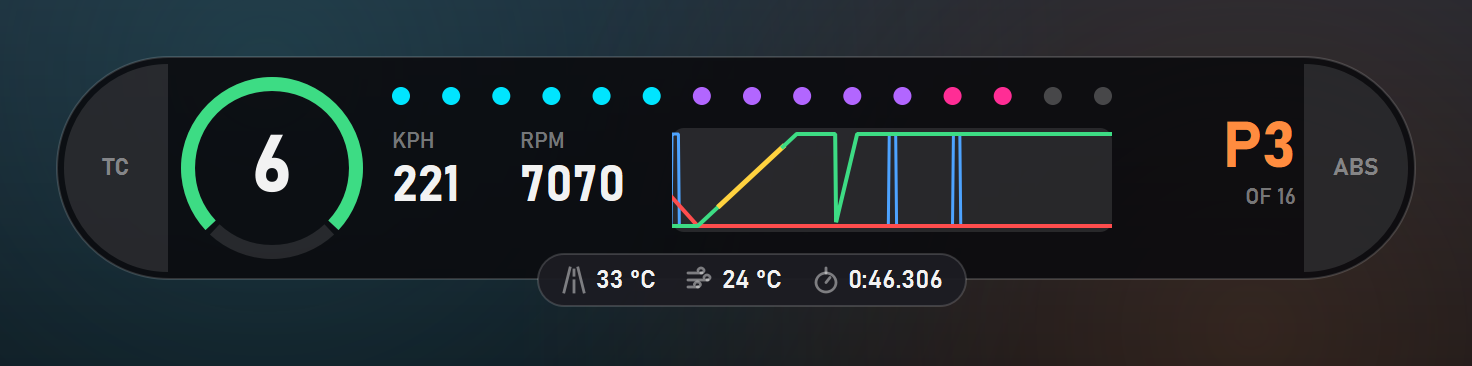
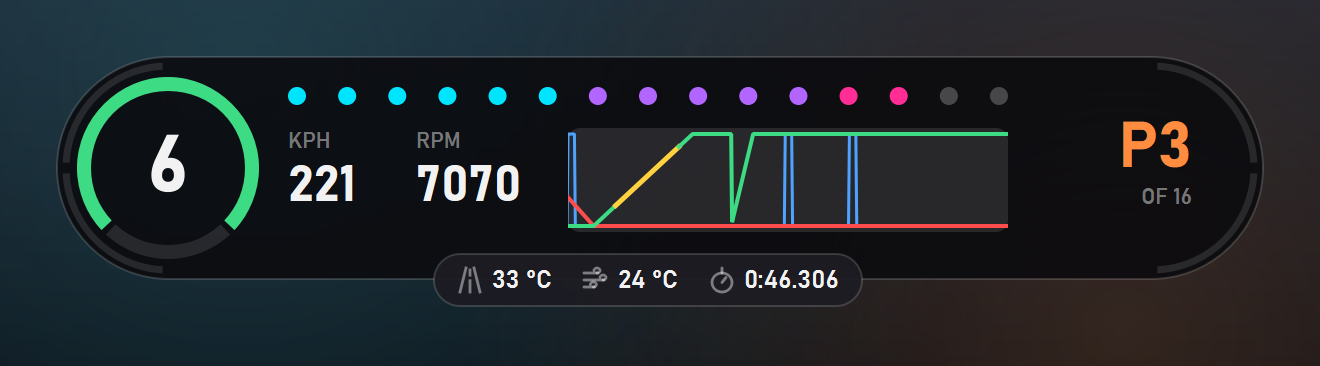
Draw TC/ABS as side-aware arc lines on the pill's ends
The user wanted the pill's rounded ends as half-circumference lines, not
filled shapes, with TC and ABS on both sides:
- each end is a thin arc: upper quarter TC (yellow), lower quarter ABS
  (orange); the left end is the car's left wheels and the right end its
  right wheels (slipping_sides() restored), flashing while active
- the gear ring moves inside the left end, concentric with its arc
- the pill is ~50 px narrower; the position runs into the right end
- demo per-wheel slip restored so the demo shows one-sided arcs

diff --git a/ace_overlay/overlay.py b/ace_overlay/overlay.py
@@ -24,23 +24,26 @@ DOT_OFF = QColor(255, 255, 255, 60)
 TEXT = QColor("#f2f2f2")
 DIM = QColor(255, 255, 255, 110)
 
-# The pill: half-circle ends (TC left, ABS right), then left to right inside it:
-# gear ring | dot shift lights over KPH/RPM and the trace | position. The chip hangs off the bottom edge.
+# The pill. Its rounded ends carry the TC / ABS arcs (left end = car's left wheels, right end = right
+# wheels; upper quarter TC, lower quarter ABS). The gear ring sits inside the left end; then the dot
+# shift lights over KPH/RPM and the trace, then the position. The chip hangs off the bottom edge.
 PH = 112  # pill height
 R = PH // 2  # end radius
 CHIP_H = 26
 H = PH + CHIP_H // 2 + 2
-RING_CX, RING_CY, RING_R, RING_W = R + 52, R, 42, 7  # gear ring centre, radius (to stroke centre), stroke
+ARC_R, ARC_W = R - 5, 3.5  # TC / ABS end arcs: radius (to stroke centre) and stroke
+RING_CX, RING_CY, RING_R, RING_W = R, R, 42, 7  # gear ring, concentric with the left end
 CX0 = RING_CX + RING_R + 18  # start of the middle section
 DOT_Y, DOT_D = 20, 9  # shift-light row centre and dot diameter
 READ_W = 128  # KPH / RPM block
 TRACE_X, TRACE_Y, TRACE_W, TRACE_H = CX0 + READ_W + 12, 36, 220, 52  # the time window is Config.trace_seconds
 POS_X, POS_W = TRACE_X + TRACE_W + 12, 80
-W = POS_X + POS_W + 4 + R
+W = POS_X + POS_W + R - 20  # the position runs a little way into the right end's curve
 CHIP_CX = (CX0 + TRACE_X + TRACE_W) / 2  # chip centred under KPH/RPM + trace
 
 SHIFT_LEDS = 15  # thresholds and colours come from Config
 AID_HOLD_S = 0.15  # keep a TC/ABS light flashing briefly so single-step triggers are visible
+SIDE_SLIP_SHARE = 0.7  # a side lights if its wheel slip is at least this share of the worst side
 HIDE_DELAY_S = 2.0  # "only while driving": stay up this long after driving stops, to avoid flicker
 
 BASE_FLAGS = Qt.FramelessWindowHint | Qt.WindowStaysOnTopHint | Qt.Tool
@@ -53,6 +56,21 @@ def font(size, weight=QFont.DemiBold):
     f.setPointSizeF(size)
     f.setWeight(weight)
     return f
+
+
+def slipping_sides(slip_ratio):
+    """(left, right) - which side(s) of the car a TC/ABS intervention is working on.
+
+    The game only reports TC/ABS as a single flag, so the side is taken from per-wheel slip:
+    a side lights if its worst wheel slips at least SIDE_SLIP_SHARE as much as the worst
+    wheel overall. With no slip data, both sides light.
+    """
+    left = max(abs(slip_ratio[0]), abs(slip_ratio[2]))  # FL, RL
+    right = max(abs(slip_ratio[1]), abs(slip_ratio[3]))  # FR, RR
+    worst = max(left, right)
+    if worst < 1e-3:
+        return True, True
+    return left >= worst * SIDE_SLIP_SHARE, right >= worst * SIDE_SLIP_SHARE
 
 
 def lap_time(ms):
@@ -240,7 +258,9 @@ class InputsOverlay(OverlayWindow):
         self.frame = self.graphics = None
         self.last_driving = float("-inf")  # last time is_driving() was true
         self.trace = deque()  # (time, gas, brake, clutch, tc_working, abs_working) for every tick
-        self.aid_until = {"tc": 0.0, "abs": 0.0}  # time each light stops flashing
+        self.aid_trace_until = {"tc": 0.0, "abs": 0.0}  # car-wide, for the trace colouring
+        # (aid, side) -> time that end arc stops flashing; side 0 = left, 1 = right
+        self.aid_until = {(aid, side): 0.0 for aid in ("tc", "abs") for side in (0, 1)}
         self.blink = 0
 
         self.timer = QTimer(self)
@@ -269,10 +289,14 @@ class InputsOverlay(OverlayWindow):
         if f is not None:
             for aid, active in (("tc", f.tcInAction), ("abs", f.absInAction)):
                 if active:
-                    self.aid_until[aid] = now + AID_HOLD_S
+                    self.aid_trace_until[aid] = now + AID_HOLD_S
+                    for side, lit in enumerate(slipping_sides(f.slipRatio)):
+                        if lit:
+                            self.aid_until[aid, side] = now + AID_HOLD_S
             # Keep every reading for the longest window the settings allow, with whether TC / ABS were
             # working (held like the lights, so a flickering flag gives a solid stretch of colour).
-            self.trace.append((now, f.gas, f.brake, f.clutch, now < self.aid_until["tc"], now < self.aid_until["abs"]))
+            self.trace.append((now, f.gas, f.brake, f.clutch,
+                               now < self.aid_trace_until["tc"], now < self.aid_trace_until["abs"]))
             while self.trace[0][0] < now - TRACE_MAX_SECONDS:
                 self.trace.popleft()
         self.blink = (self.blink + 1) % 16
@@ -300,7 +324,7 @@ class InputsOverlay(OverlayWindow):
             p.drawText(QRectF(0, 0, W, PH), Qt.AlignCenter, "Waiting for Assetto Corsa EVO…")
             return
 
-        self.draw_caps(p)
+        self.draw_end_arcs(p)
         self.draw_ring(p, f)
         self.draw_dots(p, f)
         self.draw_readouts(p, f)
@@ -308,26 +332,19 @@ class InputsOverlay(OverlayWindow):
         self.draw_position(p)
         self.draw_chip(p, f)
 
-    def draw_caps(self, p):
-        """The pill's half-circle ends are the TC (left) and ABS (right) lights."""
+    def draw_end_arcs(self, p):
+        """TC / ABS as lines along the pill's rounded ends: the left end for the car's left wheels, the
+        right end for its right wheels; upper quarter TC (yellow), lower quarter ABS (orange)."""
         now = time.monotonic()
         flash_on = (self.blink // 4) % 2 == 0  # ~7.5 Hz at 60 fps
-        inset = 4
-        disc = QRectF(inset, inset, PH - 2 * inset, PH - 2 * inset)
-        for aid, label, color, x0, start in (("tc", "TC", YELLOW, 0, 90), ("abs", "ABS", ORANGE, W - PH, 270)):
-            on = now < self.aid_until[aid] and flash_on
-            half = QPainterPath()
-            half.moveTo(x0 + R, R)
-            half.arcTo(disc.translated(x0, 0), start, 180)
-            half.closeSubpath()
-            p.setPen(Qt.NoPen)
-            p.setBrush(color if on else TRACK)
-            p.drawPath(half)
-            # Label centred in the half that's inside the pill.
-            text_x = x0 + inset if aid == "tc" else x0 + R
-            p.setPen(QColor("#111") if on else DIM)
-            p.setFont(font(9, QFont.Bold))
-            p.drawText(QRectF(text_x, 0, R - inset, PH), Qt.AlignCenter, label)
+        gap = 6  # degrees between the TC and ABS quarter on each end
+        # (side, end centre x, TC quarter start, ABS quarter start); Qt angles go CCW from 3 o'clock.
+        for side, cx, tc_start, abs_start in ((0, R, 90, 180), (1, W - R, 0, 270)):
+            box = QRectF(cx - ARC_R, R - ARC_R, 2 * ARC_R, 2 * ARC_R)
+            for aid, start, color in (("tc", tc_start, YELLOW), ("abs", abs_start, ORANGE)):
+                on = now < self.aid_until[aid, side] and flash_on
+                p.setPen(QPen(color if on else TRACK, ARC_W + (1.5 if on else 0), Qt.SolidLine, Qt.FlatCap))
+                p.drawArc(box, int((start + gap / 2) * 16), int((90 - gap) * 16))
 
     def draw_ring(self, p, f):
         """Gear in a ring: throttle fills 3/4 of it clockwise over the top (green), brake fills the

diff --git a/ace_overlay/demo.py b/ace_overlay/demo.py
@@ -89,6 +89,14 @@ class DemoSource:
         # ABS chatters under heavy braking; TC cuts in on the corner exit.
         p.absInAction = int(brake > 0.55 and int(now * 20) % 3 != 0)
         p.tcInAction = int(7.9 < t < 8.9 and int(now * 14) % 2 == 0)
+        # Per-wheel slip: braking locks the unloaded inside (left) wheels more as the car turns in;
+        # on the exit the inside rear spins up.
+        lock = brake * 0.12
+        spin = gas * 0.18 if 7.9 < t < 8.9 else 0.0
+        p.slipRatio[0] = -lock * (1 + 2 * corner)  # FL
+        p.slipRatio[1] = -lock  # FR
+        p.slipRatio[2] = -lock * 0.6 * (1 + 2 * corner) + spin  # RL
+        p.slipRatio[3] = -lock * 0.6 + spin * 0.3  # RR
         for w in range(4):
             p.tyreTempI[w], p.tyreTempM[w], p.tyreTempO[w] = self._temps[w]
         p.airTemp, p.roadTemp = 24.0, 33.0

diff --git a/tools/screenshots.py b/tools/screenshots.py
@@ -151,7 +151,8 @@ def main():
     run_until(lambda f: f.rpms >= 0.97 * f.currentMaxRpm)
     still("shift-lights.png")
 
-    run_until(lambda f: f.brake > 0.7 and clock.t < overlay.aid_until["abs"])
+    # Wait until only the left ABS arc is lit (the right side's hold from straight-line braking has expired).
+    run_until(lambda f: overlay.aid_until["abs", 0] > clock.t >= overlay.aid_until["abs", 1])
     still("abs-braking.png")
 
     run_until(lambda f: f.tcInAction and 8.2 < lap_time() < 8.6)

diff --git a/README.md b/README.md
@@ -23,16 +23,17 @@
 
 ## Features
 
-- **Gear and pedal ring.** The gear sits inside a ring: throttle fills three quarters of it in green,
-  and brake fills the bottom quarter in red.
+- **Gear and pedal ring.** The gear sits inside a ring at the left end of the pill: throttle fills
+  three quarters of it in green, and brake fills the bottom quarter in red.
 - **Shift lights.** A row of 15 dots with configurable colour zones and flash point.
 - **Speed, RPM and position** at a glance. Position shows as "P19" (with "of 20" underneath)
   whenever the game ranks the session.
 - **Real-time input trace.** Scrolling throttle, brake and clutch history. The right edge is always
   your live input, and the time window (2–30 s) can be changed on the fly. The brake line turns orange
   while ABS works, and the throttle line yellow while TC cuts.
-- **TC and ABS lights.** The pill's two rounded ends: the left end flashes yellow when traction
-  control cuts in, and the right end flashes orange when ABS works.
+- **Side-aware TC and ABS lines.** The pill's rounded ends are thin arc lines: the upper quarter of
+  each end is TC (flashes yellow) and the lower quarter ABS (flashes orange). The left end is the car's
+  left wheels and the right end its right wheels, so you can see which side is slipping.
 - **Track, air and lap time.** A chip under the dash with track temperature, air temperature and the
   running time of your current lap.
 - **Info panel.** A second, separately placed window for race-engineer data: live delta to your best
@@ -66,12 +67,12 @@
 <table>
   <tr>
     <td width="50%">
-      <img src="docs/images/abs-braking.png" alt="ABS end lit while braking">
-      <p align="center"><sub><b>Heavy braking.</b> The ring's red quarter shows the brake, and the right end lights orange while ABS works.</sub></p>
+      <img src="docs/images/abs-braking.png" alt="Left ABS arc lit while trail braking">
+      <p align="center"><sub><b>Trail braking into a left-hander.</b> The ring's red quarter shows the brake, and only the left ABS arc lights, where the unloaded inside wheels lock first.</sub></p>
     </td>
     <td width="50%">
-      <img src="docs/images/tc-exit.png" alt="TC end lit on corner exit">
-      <p align="center"><sub><b>Corner exit.</b> The left end lights yellow while TC cuts, and the throttle line in the trace turns yellow.</sub></p>
+      <img src="docs/images/tc-exit.png" alt="Left TC arc lit on corner exit">
+      <p align="center"><sub><b>Corner exit.</b> The upper-left TC arc lights as the inside rear spins, and the throttle line in the trace turns yellow.</sub></p>
     </td>
   </tr>
   <tr>
@@ -166,6 +167,9 @@ AC EVO ──────┤                                                    
 
 - **Tyre wear isn't shown.** AC EVO doesn't publish it. The in-game HUD calculates it internally
   and never writes it to shared memory.
+- **The TC/ABS side is inferred.** The game reports TC and ABS as single on/off flags. The overlay
+  picks the side from per-wheel slip, and lights both sides when they're close or when no slip data
+  is available.
 - **Early access.** AC EVO is still in development and Kunos can change the telemetry layout
   between patches. If values look wrong after an update, run **`Check telemetry.bat`** (or
   `python -m ace_overlay --dump`) while driving and compare against the in-game HUD, then

diff --git a/CLAUDE.md b/CLAUDE.md
@@ -51,8 +51,8 @@ python -m venv .venv && .venv\Scripts\pip install -e .[build,dev]
 - **TC is unverified.** No TC signal fired in a 4-minute recording, possibly because TC never cut in.
   It's handled like ABS (`tcInAction | tc > 0 | tc_active`).
 - **Tyre wear isn't published** anywhere in shared memory (physics `tyreWear` is always 0). Don't add it.
-- **TC/ABS are car-wide flags only.** Per-wheel `slipRatio` is populated during ABS, if side info is
-  ever wanted again; graphics `TyreState.lock` never fired. The pill HUD has one TC and one ABS light.
+- **TC/ABS side is inferred.** The game only sends car-wide flags, so `slipping_sides()` picks the
+  side from per-wheel `slipRatio` (populated during ABS on the Golf; graphics `TyreState.lock` never fired).
 - **Physics `airTemp`/`roadTemp` read 0 in some states** (seen with status 3). Use `shm.air_temp()`
   (falls back to graphics `air_temperature_c`) and `shm.track_temp()` (None → "–").
 - For live investigation, attach to both blocks while the user drives and count how often each
@@ -66,9 +66,10 @@ python -m venv .venv && .venv\Scripts\pip install -e .[build,dev]
 - The locked overlay is click-through (`WindowTransparentForInput`), so **any clickable control must
   be its own window**. See `SideButton` (pin, gear). Those use `WindowDoesNotAcceptFocus` so clicking
   them doesn't take focus from the game.
-- The HUD is a pill: half-circle ends are the TC (left) and ABS (right) lights, then the gear ring
-  (throttle on 3/4, brake on the bottom 1/4), dot shift lights over KPH/RPM and the trace, then the
-  position. A chip (track °C, air °C, current lap) hangs over the bottom edge. The layout is
+- The HUD is a pill. Its rounded ends are thin TC/ABS arc lines (upper quarter TC, lower quarter
+  ABS; left end = car's left wheels, right end = right wheels, via `slipping_sides()`). The gear ring
+  (throttle on 3/4, brake on the bottom 1/4) is concentric with the left end, then come the dot shift
+  lights over KPH/RPM and the trace, then the position. A chip (track °C, air °C, current lap) hangs over the bottom edge. The layout is
   constant-driven at the top of `overlay.py` (`PH`, `R`, `RING_*`, `CX0`, `TRACE_*`, `POS_*`, `W`):
   extend that chain, not hard-coded coordinates. Fonts go through `font()` (Bahnschrift, then Segoe UI).
 - Tyre temperatures, pedal bars and the boost bar were dropped from the HUD in the redesign at the
